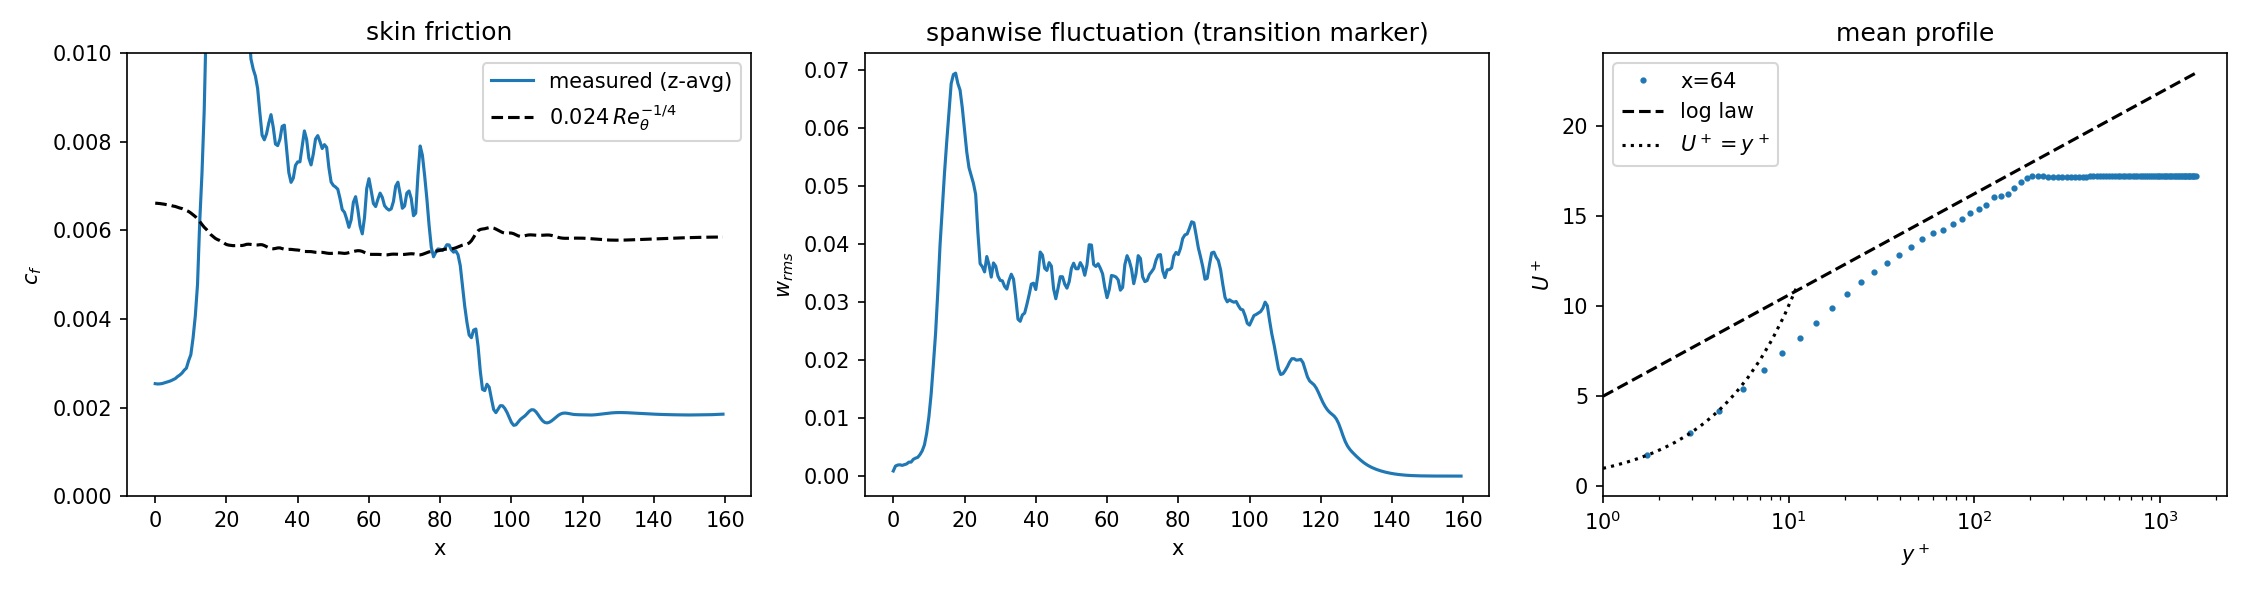
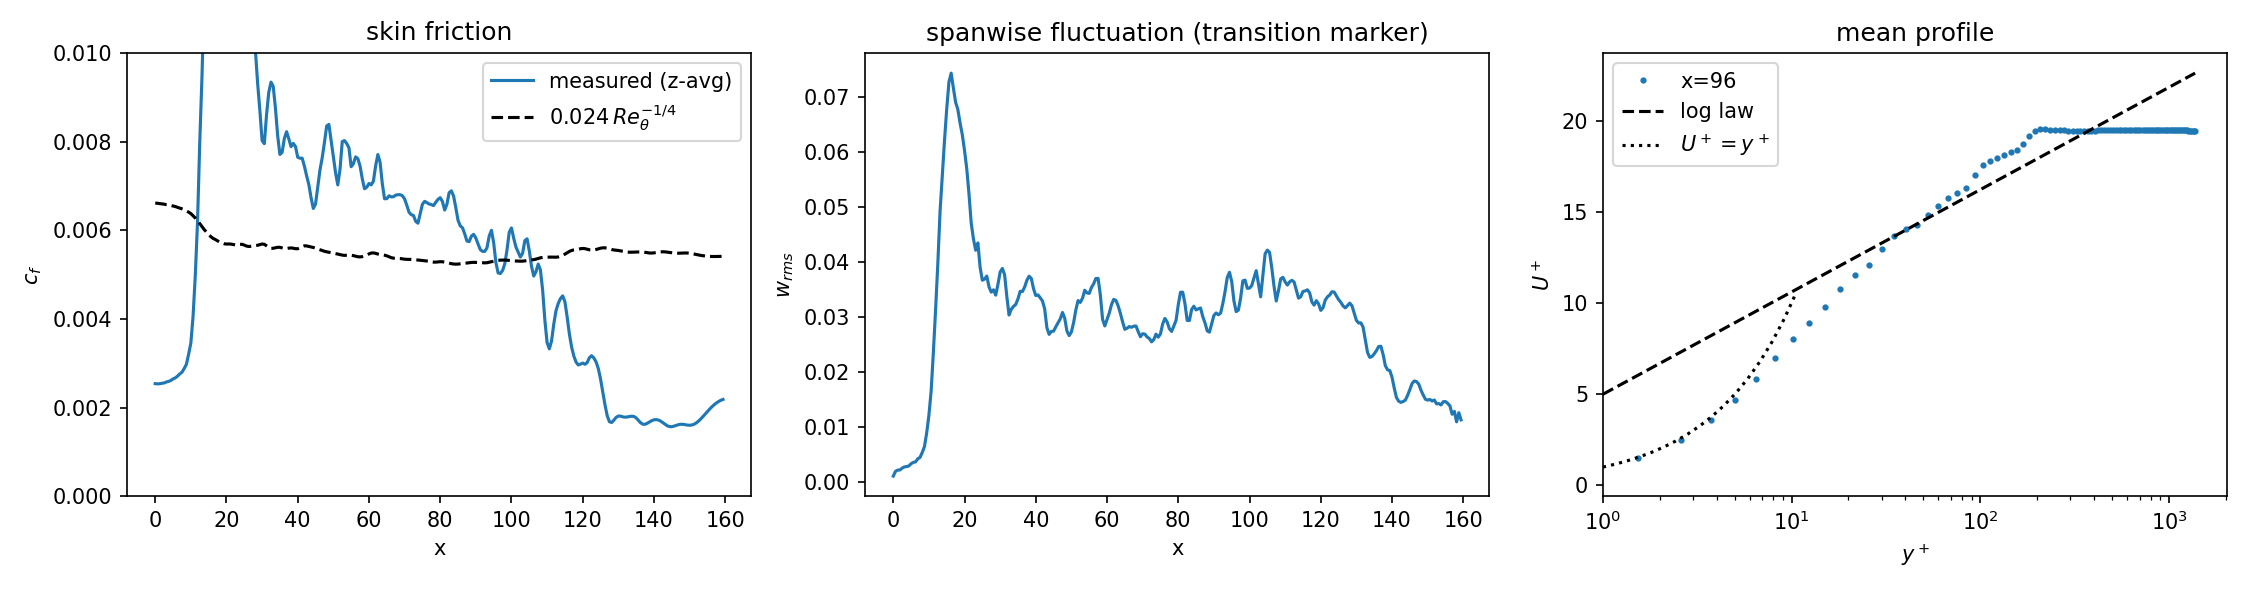
Boundary layer: turbulent smoke fills the box (t=180 snapshot)
Update smoke.png + README to the fully-filled turbulent state: by t=180
(step 6000) the whole domain downstream of the trip is turbulent (w_rms ~3%
plateau x=20-150), H ~1.5, c_f near the correlation over x=20-100, and the
mean U+(y+) at x=96 crosses the log law near y+ ~40 (U+ ~19.5). Stable
throughout. Converged statistics remain a production zpg.ini run.

diff --git a/tutorials/turbulentBoundaryLayer/turbulent/README.md b/tutorials/turbulentBoundaryLayer/turbulent/README.md
@@ -86,27 +86,31 @@ converged statistics need time-averaging over many snapshots (production).
 triggers transition and a turbulent boundary layer establishes and spreads
 downstream at ≈U∞ (snapshots, z-averaged):
 
+The turbulent front convects downstream at ≈U∞ and fills the box:
+
 | t (step) | turbulent region (w_rms ≳ 3%) |
 |----------|-------------------------------|
 | 45 (1500)  | x ≈ 15–40 (trip disturbance holding, not decaying) |
 | 90 (3000)  | x ≈ 20–70 |
 | 135 (4500) | x ≈ 20–120, front near the outlet |
+| 180 (6000) | x ≈ 20–150 — **whole domain turbulent** |
 
-At t = 135 (`smoke.png`, `check_turbulent.py smoke_4500.h5`):
+At t = 180 (`smoke.png`, `check_turbulent.py smoke_6000.h5`), once the box is
+filled:
 
-- **shape factor H drops from the laminar 2.59 to ≈1.5** in the transitioned
-  region (x = 47–79) — the turbulent signature;
-- **c_f tracks the turbulent correlation** 0.024 Re_θ^(−1/4): e.g. at
-  x = 79, c_f = 5.6e-3 vs 5.5e-3;
-- w_rms shows the trip spike (x ≈ 15) then a sustained ≈3.5% turbulent
-  plateau (x = 20–105), decaying to 0 where the front has not yet arrived;
-- the mean U⁺(y⁺) at x = 64 has the viscous sublayer (U⁺ = y⁺) turning
-  toward the log region.
+- **shape factor H drops from the laminar 2.59 to ≈1.5** across the turbulent
+  region (x = 47–79: H = 1.52, 1.48) — the turbulent signature;
+- **c_f tracks the turbulent correlation** 0.024 Re_θ^(−1/4) (≈6–8e-3
+  measured vs ≈5.5e-3) over x ≈ 20–100;
+- w_rms shows the trip spike (x ≈ 15) then a sustained ≈3% turbulent plateau
+  across the whole box (x = 20–150);
+- the mean U⁺(y⁺) at x = 96 has the viscous sublayer (U⁺ = y⁺), crosses the
+  log law near y⁺ ≈ 40, and reaches U⁺ ≈ 19.5.
 
-The run stays stable (u ∈ [−0.07, 1.36]) throughout. The mild under-log and
-the U⁺ ≈ 17 plateau are the expected low-Re (Re_θ ≈ 360) + single-snapshot
-(z-average only, no time averaging) behavior — they tighten with time/
-spanwise averaging over many snapshots at the production resolution.
+The run stays stable (u ∈ [−0.08, 1.30]) throughout. The instantaneous c_f
+scatter and the U⁺ overshoot/plateau are the expected low-Re (Re_θ ≈ 360–420)
++ single-snapshot (z-average only, no time averaging) behavior — they tighten
+with time/spanwise averaging over many snapshots at the production resolution.
 
 **This validates the setup end-to-end** (Blasius inlet, trip, transition,
 turbulent BL, ZPG outlet top). Converged turbulence statistics — a smooth
